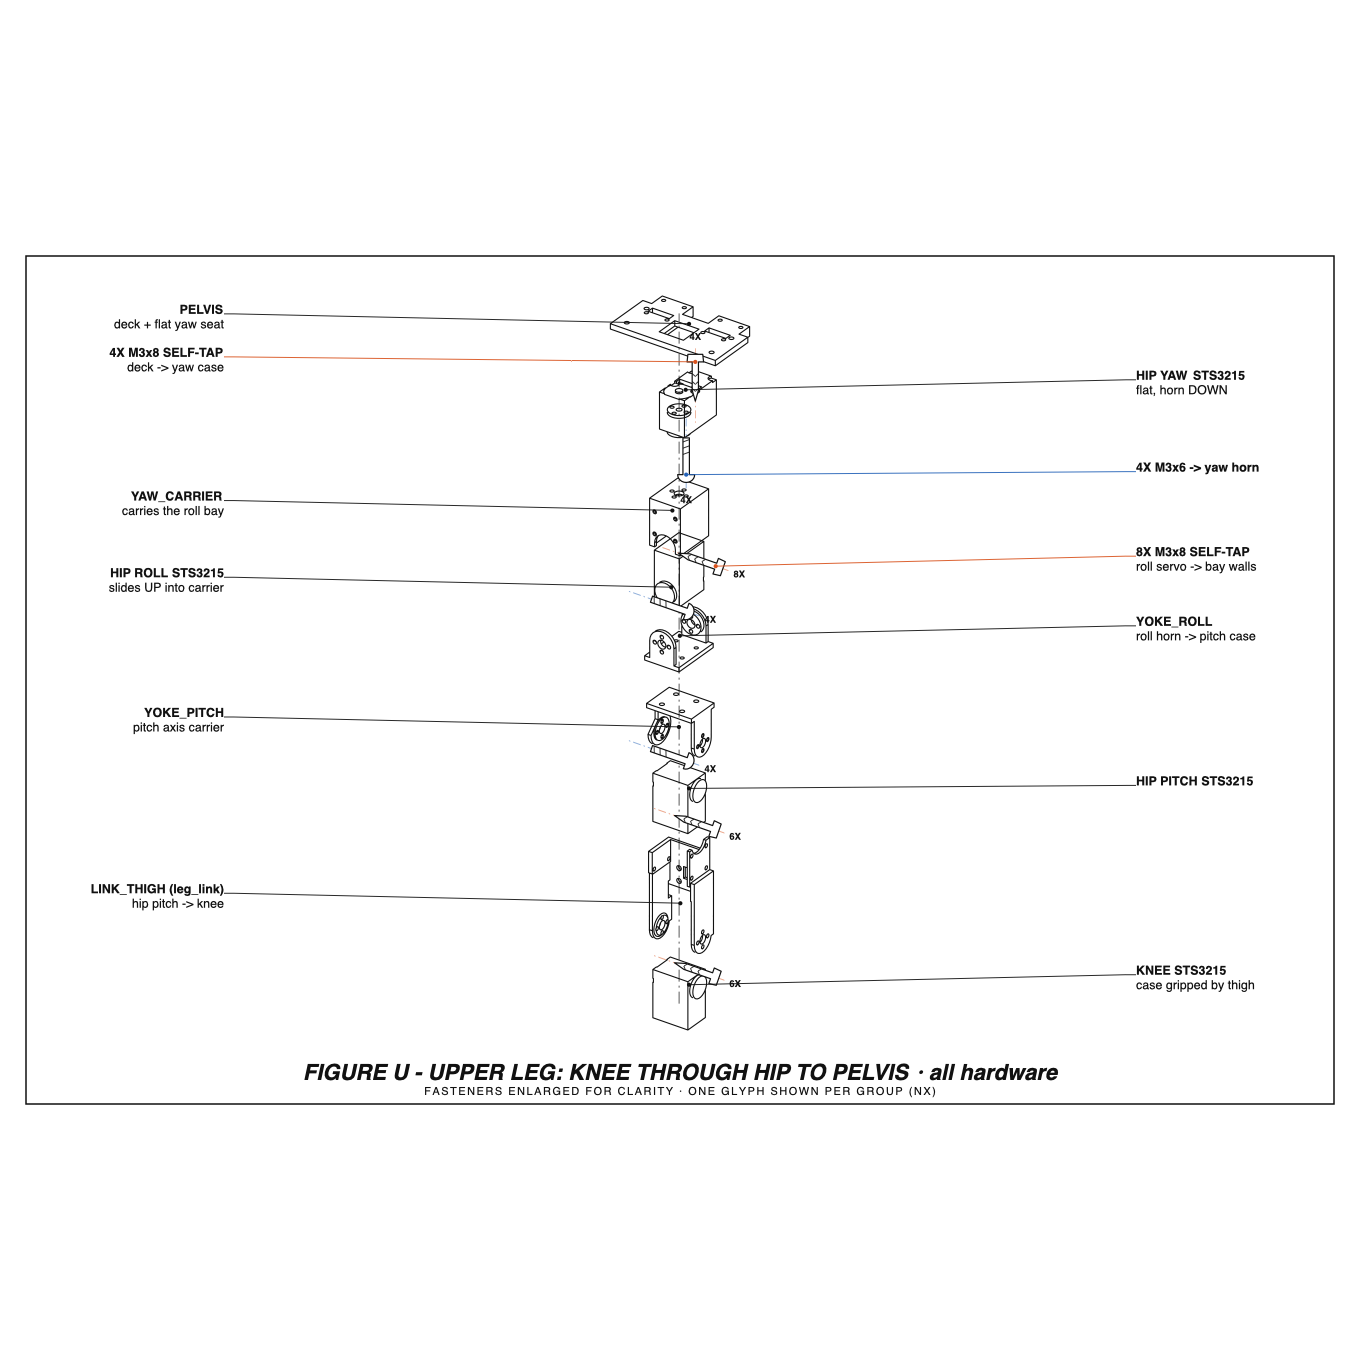
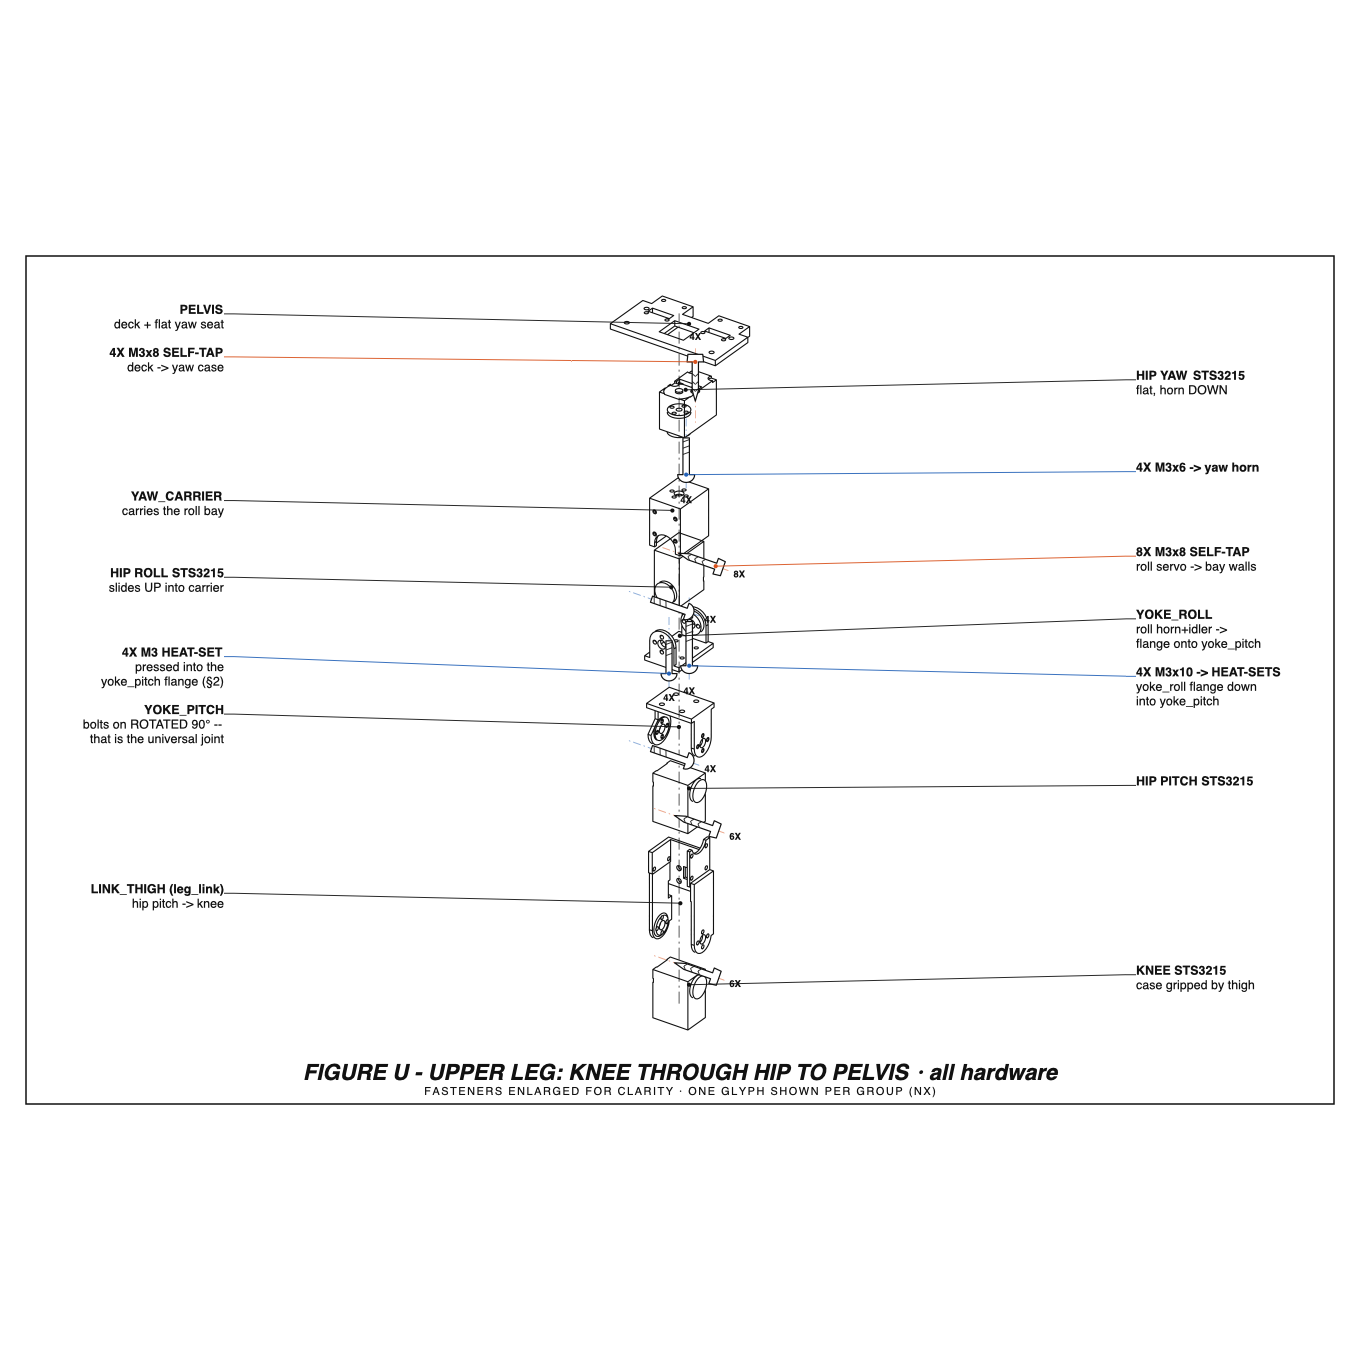
upper-leg drawing: add the yoke_roll -> yoke_pitch flange fasteners
The figure omitted the only fastener group that actually joins the two yokes:
4X M3x10 down through yoke_roll's flange into 4X M3 heat-set inserts in
yoke_pitch's flange. Everything else in the hip chain was called out, so the
one joint a reader would most need to look up was the one missing.

Also corrected two callouts. YOKE_ROLL said "roll horn -> pitch case", which
skips the flange entirely and credits it with gripping a servo case it never
touches; it now reads "roll horn+idler -> flange onto yoke_pitch". YOKE_PITCH
now states the part that is easy to get wrong on the bench: it bolts on
ROTATED 90 degrees, which is what makes the pair a universal joint. The +/-10
bolt square is 90-degree rotationally symmetric precisely to allow that.

Cross-checked against docs/assembly.md sections 2 and 6: 8 inserts total (4
per yoke_pitch flange, pressed from the mating face before any joint goes
together) and the M3x10 count includes 8 for this job.

Changed region(s): [[0.0618, 0.4632, 0.1853, 0.5559], [0.8338, 0.4324, 0.9265, 0.525], [0.4941, 0.4632, 0.6176, 0.4941]]

diff --git a/cad/render_exploded_drawing.py b/cad/render_exploded_drawing.py
@@ -675,6 +675,12 @@ def upper_leg():
         ("rb", (0, by + D.CASE_HOLE_LAT + 26,
                 D.HIP_YAW_Z + D.CARRIER_ROLL_AXIS - 30), "y+", "selftap", 8, 8),
         ("rh", (0, by + r, D.HIP_ROLL_Z - 82), "y+", "screw", 4, 6),
+        # the ONLY thing joining the two yokes: 4X M3x10 down through
+        # yoke_roll's flange into the heat-sets in yoke_pitch's flange
+        ("fl", (0, by + D.YOKE_BOLT_SQ / 2, D.HIP_ROLL_Z - 132),
+         "z-", "screw", 4, 10),
+        ("hs", (0, by - D.YOKE_BOLT_SQ / 2, D.HIP_ROLL_Z - 146),
+         "z-", "insert", 4, 5),
         ("ph", (0, by + r, D.HIP_PITCH_Z - 172), "y+", "screw", 4, 6),
         ("pg", (D.CASE_HOLE_LAT, by + D.SV_TOPFACE + 22, D.HIP_PITCH_Z - 220),
          "y+", "selftap", 6, 8),
@@ -690,8 +696,10 @@ def upper_leg():
         ("YAW_CARRIER", ["YAW_CARRIER", "carries the roll bay"], "L"),
         ("rb", ["8X M3x8 SELF-TAP", "roll servo -> bay walls"], "R"),
         ("ROLL SERVO", ["HIP ROLL  STS3215", "slides UP into carrier"], "L"),
-        ("YOKE_ROLL", ["YOKE_ROLL", "roll horn -> pitch case"], "R"),
-        ("YOKE_PITCH", ["YOKE_PITCH", "pitch axis carrier"], "L"),
+        ("YOKE_ROLL", ["YOKE_ROLL", "roll horn+idler ->", "flange onto yoke_pitch"], "R"),
+        ("fl", ["4X M3x10 -> HEAT-SETS", "yoke_roll flange down", "into yoke_pitch"], "R"),
+        ("hs", ["4X M3 HEAT-SET", "pressed into the", "yoke_pitch flange (\u00a72)"], "L"),
+        ("YOKE_PITCH", ["YOKE_PITCH", "bolts on ROTATED 90\u00b0 --", "that is the universal joint"], "L"),
         ("PITCH SERVO", ["HIP PITCH  STS3215"], "R"),
         ("LINK_THIGH", ["LINK_THIGH  (leg_link)", "hip pitch -> knee"], "L"),
         ("KNEE SERVO", ["KNEE  STS3215", "case gripped by thigh"], "R"),
